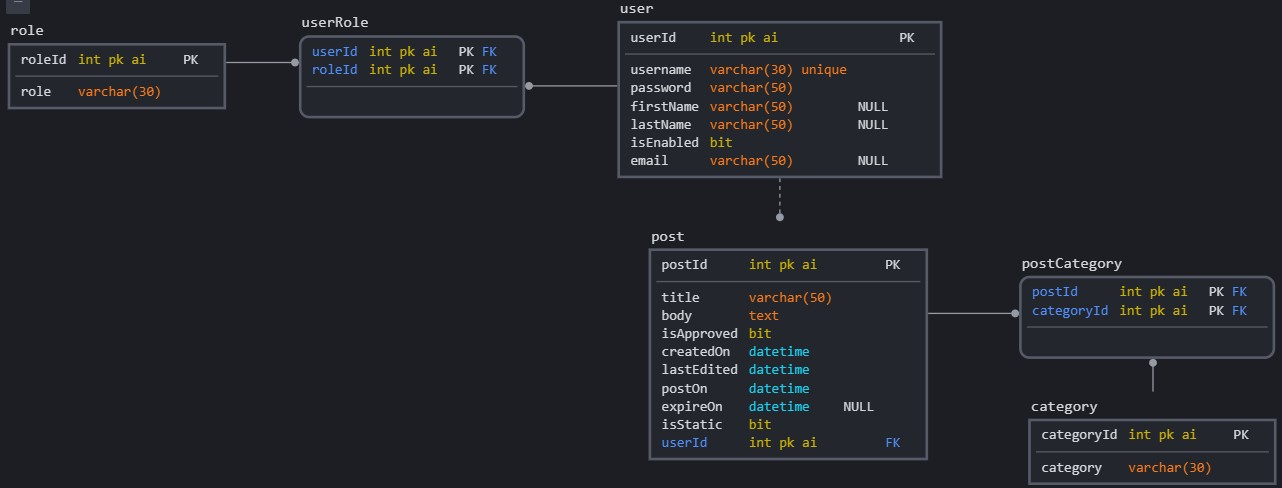
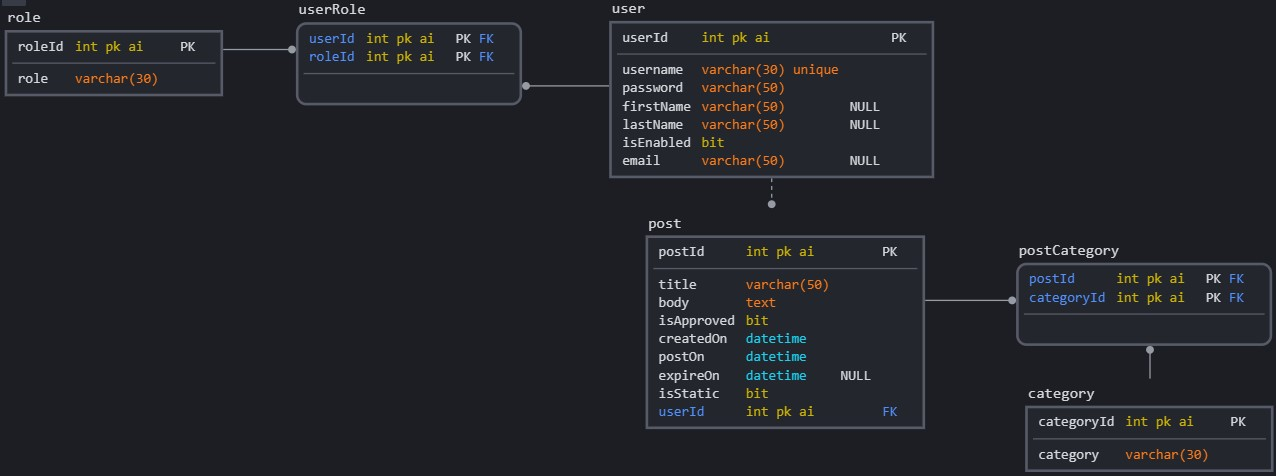
Working on post dao

diff --git a/blogcms/src/main/java/com/sg/blogcms/model/PostDaoDb.java b/blogcms/src/main/java/com/sg/blogcms/model/PostDaoDb.java
@@ -1,9 +1,13 @@
 package com.sg.blogcms.model;
 
 import com.sg.blogcms.entity.Post;
+import com.sg.blogcms.entity.User;
+import java.sql.ResultSet;
+import java.sql.SQLException;
 import java.util.List;
 import org.springframework.beans.factory.annotation.Autowired;
 import org.springframework.jdbc.core.JdbcTemplate;
+import org.springframework.jdbc.core.RowMapper;
 import org.springframework.stereotype.Repository;
 
 @Repository
@@ -14,13 +18,42 @@ public class PostDaoDb implements PostDao {
     
     @Override
     public Post createPost(Post post) {
-        String insertQuery = "INSERT INTO post(title, body, isApproved, isStaticPage, createdOn, postOn, expireOn, userId) "
+        //insert
+        String insertQuery = "INSERT INTO post(title, body, isApproved, isStaticPage, "
+                + "createdOn, postOn, expireOn, userId) "
                 + "VALUES(?,?,?,?,?,?,?,?);";
+        jdbc.update(insertQuery, 
+                post.getTitle(),
+                post.getBody(),
+                post.isApproved(),
+                post.isStaticPage(),
+                post.getCreatedOn(),
+                post.getPostOn(),
+                post.getExpireOn(),
+                post.getUser().getId());
+        
+        //set id from db
+        int newId = jdbc.queryForObject("SELECT LAST_INSERT_ID();", Integer.class);
+        post.setId(newId);
+        
+        //FIXME should I do category stuff here?
+        
+        return post;
     }
 
     @Override
     public Post readPostById(int id) {
-        throw new UnsupportedOperationException("Not supported yet."); //To change body of generated methods, choose Tools | Templates.
+        try {
+            String readQuery = "SELECT * FROM post "
+                    + "WHERE postId = ?;";
+            Post post = jdbc.queryForObject(readQuery, new PostMapper(), id);
+            
+            post.setUser(readUserForPost(post.getId()));
+            
+            return post;
+        } catch (DataAccessException e) {
+            return null;
+        }
     }
 
     @Override
@@ -51,6 +84,37 @@ public class PostDaoDb implements PostDao {
     @Override
     public boolean deletePostById(int id) {
         throw new UnsupportedOperationException("Not supported yet."); //To change body of generated methods, choose Tools | Templates.
+    }
+
+    /*helpers*/
+    /**
+     * Retrieve the User for a Post
+     * @param id {int} a valid id
+     * @return {User} obj for a Post from db
+     */
+    private User readUserForPost(int id) {
+        throw new UnsupportedOperationException("Not supported yet."); //To change body of generated methods, choose Tools | Templates.
+    }
+    
+    /**
+     * RowMapper impl
+     */
+    public static final class PostMapper implements RowMapper<Post>{
+
+        @Override
+        public Post mapRow(ResultSet rs, int i) throws SQLException {
+            Post p = new Post();
+            p.setTitle(rs.getString("title"));
+            p.setBody(rs.getString("body"));
+            p.setApproved(rs.getBoolean("isApproved"));
+            p.setStaticPage(rs.getBoolean("isStaticPage"));
+            p.setCreatedOn(rs.getTimestamp("createdOn").toLocalDateTime());
+            p.setPostOn(rs.getTimestamp("postOn").toLocalDateTime());
+            p.setExpireOn(rs.getTimestamp("expireOn").toLocalDateTime());
+            //user will be associated in methods
+            
+            return p;
+        }
     }
     
 }

diff --git a/blogcms/src/main/java/com/sg/blogcms/entity/Post.java b/blogcms/src/main/java/com/sg/blogcms/entity/Post.java
@@ -12,7 +12,6 @@ public class Post {
     private boolean staticPage;
     private LocalDateTime createdOn;
     private LocalDateTime postOn;
-    private LocalDateTime lastEdited;
     private LocalDateTime expireOn; //nullable
     private User user;
 
@@ -73,14 +72,6 @@ public class Post {
         this.postOn = postOn;
     }
 
-    public LocalDateTime getLastEdited() {
-        return lastEdited;
-    }
-
-    public void setLastEdited(LocalDateTime lastEdited) {
-        this.lastEdited = lastEdited;
-    }
-
     public LocalDateTime getExpireOn() {
         return expireOn;
     }
@@ -108,7 +99,6 @@ public class Post {
         hash = 97 * hash + (this.staticPage ? 1 : 0);
         hash = 97 * hash + Objects.hashCode(this.createdOn);
         hash = 97 * hash + Objects.hashCode(this.postOn);
-        hash = 97 * hash + Objects.hashCode(this.lastEdited);
         hash = 97 * hash + Objects.hashCode(this.expireOn);
         hash = 97 * hash + Objects.hashCode(this.user);
         return hash;
@@ -147,9 +137,6 @@ public class Post {
         if (!Objects.equals(this.postOn, other.postOn)) {
             return false;
         }
-        if (!Objects.equals(this.lastEdited, other.lastEdited)) {
-            return false;
-        }
         if (!Objects.equals(this.expireOn, other.expireOn)) {
             return false;
         }
@@ -161,11 +148,9 @@ public class Post {
 
     @Override
     public String toString() {
-        return "Post{" + "id=" + id + ", title=" + title + ", body=" + body
-                + ", approved=" + approved + ", staticPage=" + staticPage
-                + ", createdOn=" + createdOn + ", postOn=" + postOn
-                + ", lastEdited=" + lastEdited + ", expireOn=" + expireOn
-                + ", user=" + user + '}';
+        return "Post{" + "id=" + id + ", title=" + title + ", body=" + body + ", approved=" 
+                + approved + ", staticPage=" + staticPage + ", createdOn=" + createdOn 
+                + ", postOn=" + postOn + ", expireOn=" + expireOn + ", user=" + user + '}';
     }
-
+    
 }

diff --git a/blogcms/src/main/java/com/sg/blogcms/model/UserDaoDb.java b/blogcms/src/main/java/com/sg/blogcms/model/UserDaoDb.java
@@ -52,7 +52,7 @@ public class UserDaoDb implements UserDao {
             String readQuery = "SELECT * FROM user "
                     + "WHERE userId = ?;";
             User user = jdbc.queryForObject(readQuery, new UserMapper(), id);
-            user.setRoles(associateRolesForUser(user.getId()));
+            user.setRoles(readRolesForUser(user.getId()));
 
             return user;
         } catch (DataAccessException e) {
@@ -66,7 +66,7 @@ public class UserDaoDb implements UserDao {
             String readQuery = "SELECT * FROM user "
                     + "WHERE username = ?;";
             User user = jdbc.queryForObject(readQuery, new UserMapper(), username);
-            user.setRoles(associateRolesForUser(user.getId()));
+            user.setRoles(readRolesForUser(user.getId()));
 
             return user;
         } catch (DataAccessException e) {
@@ -79,7 +79,7 @@ public class UserDaoDb implements UserDao {
         String readAllQuery = "SELECT * FROM user;";
         List<User> users = jdbc.query(readAllQuery, new UserMapper());
         for (User user : users) {
-            user.setRoles(associateRolesForUser(user.getId()));
+            user.setRoles(readRolesForUser(user.getId()));
         }
 
         return users;
@@ -139,13 +139,13 @@ public class UserDaoDb implements UserDao {
 
     /*helper*/
     /**
-     * Retrieve Roles a User
+     * Retrieve Roles for a User
      *
      * @param id {int} an existing User obj's id
      * @return {Set} Role obj's for a user
      * @throws DataAccessException if cannot read roles
      */
-    private Set<Role> associateRolesForUser(int id) throws DataAccessException {
+    private Set<Role> readRolesForUser(int id) throws DataAccessException {
         String selectRolesQuery = "SELECT r.* FROM userRole ur "
                 + "JOIN role r ON r.roleId = ur.roleId "
                 + "WHERE ur.userId = ?;";

diff --git a/blogcms/src/main/java/com/sg/blogcms/entity/Category.java b/blogcms/src/main/java/com/sg/blogcms/entity/Category.java
@@ -1,11 +1,13 @@
 package com.sg.blogcms.entity;
 
+import java.util.List;
 import java.util.Objects;
 
 public class Category {
-    
+
     private int id;
     private String category;
+    private List<Post> posts;
 
     /*gs*/
     public int getId() {
@@ -23,13 +25,22 @@ public class Category {
     public void setCategory(String category) {
         this.category = category;
     }
-    
+
+    public List<Post> getPosts() {
+        return posts;
+    }
+
+    public void setPosts(List<Post> posts) {
+        this.posts = posts;
+    }
+
     /*testing*/
     @Override
     public int hashCode() {
         int hash = 7;
-        hash = 79 * hash + this.id;
-        hash = 79 * hash + Objects.hashCode(this.category);
+        hash = 29 * hash + this.id;
+        hash = 29 * hash + Objects.hashCode(this.category);
+        hash = 29 * hash + Objects.hashCode(this.posts);
         return hash;
     }
 
@@ -51,12 +62,16 @@ public class Category {
         if (!Objects.equals(this.category, other.category)) {
             return false;
         }
+        if (!Objects.equals(this.posts, other.posts)) {
+            return false;
+        }
         return true;
     }
 
     @Override
     public String toString() {
-        return "Category{" + "id=" + id + ", category=" + category + '}';
+        return "Category{" + "id=" + id + ", category=" + category + ", posts="
+                + posts + '}';
     }
-    
+
 }
